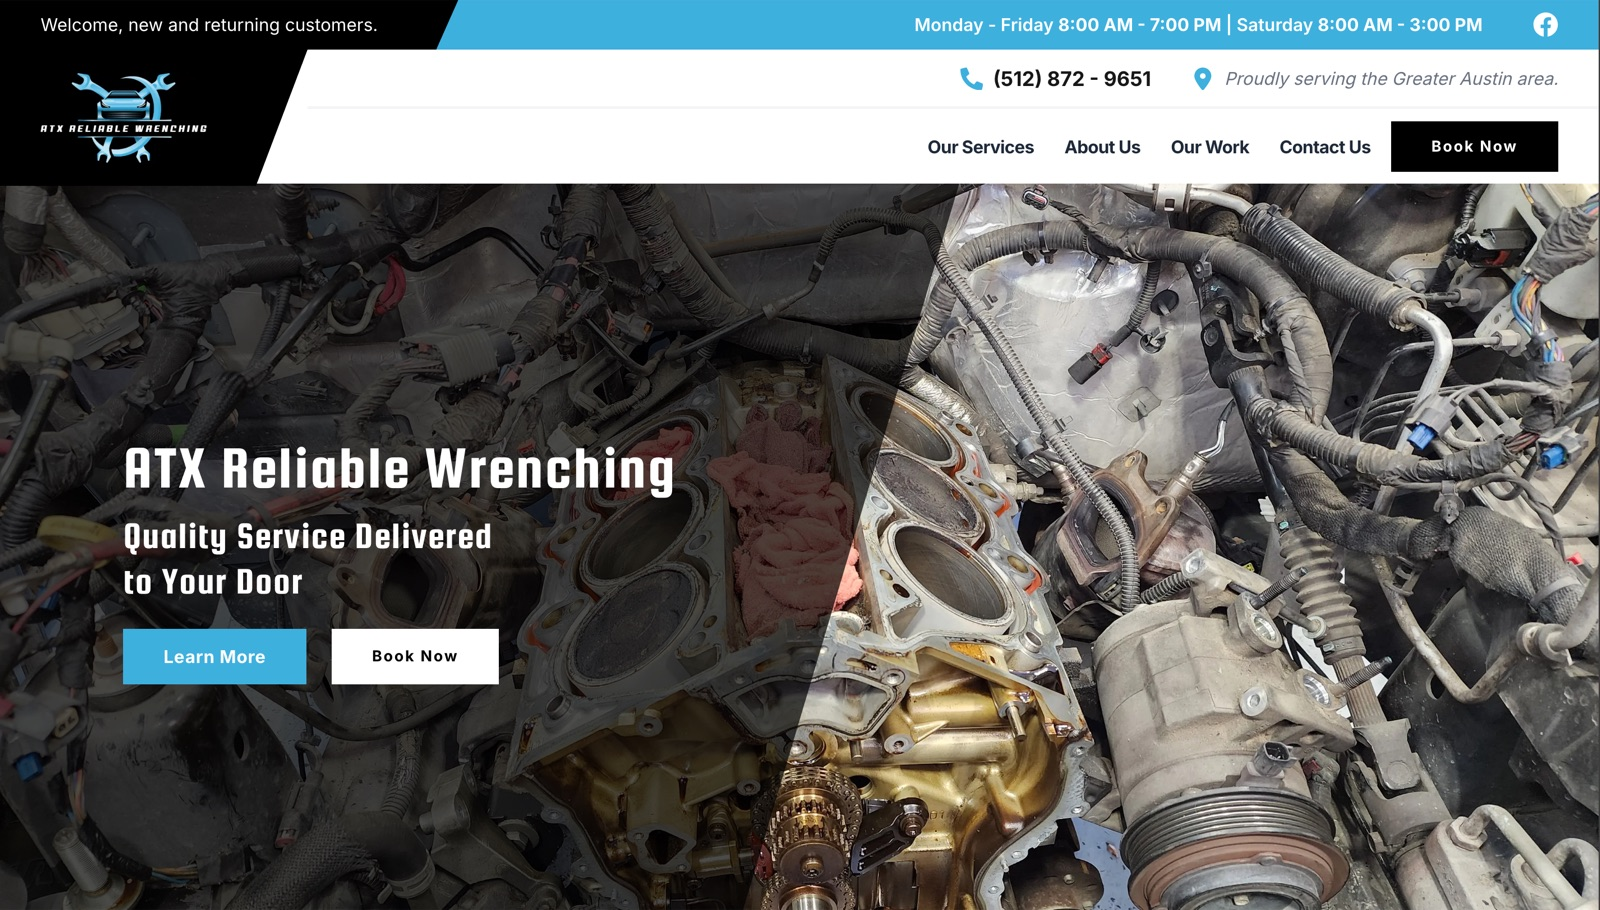
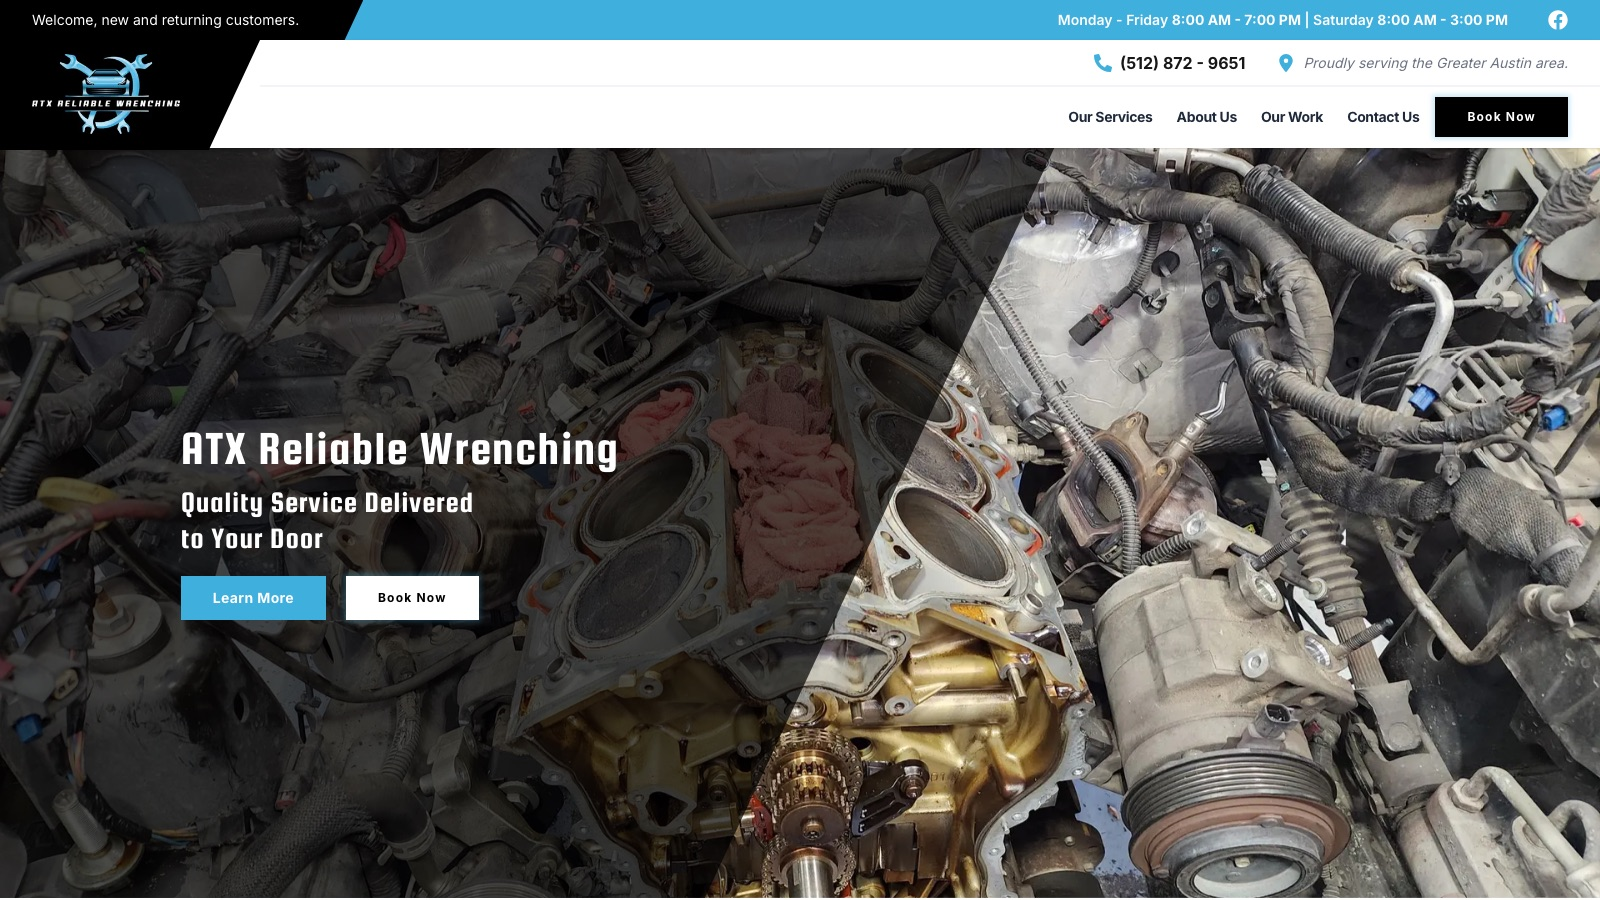
Replace Mobile Mechanic screenshot with current hero
Fresh 1600x900 capture of the live site's hero, showing the diagonal
panels the lessonsLearned describes. Same filename, so projects.ts is
unchanged.

diff --git a/docs/PROJECT_MODAL_UPDATES.md b/docs/PROJECT_MODAL_UPDATES.md
@@ -71,13 +71,13 @@ a first full audit against it has already been done and the clear violations fix
 - Caveats: screenshot uses mock data; Firebase and RevenueCat were only tested with
   mocks; the overview diagram adds a `client` classDef (muted purple).
 
-### Mobile Mechanic Site — done, two open items
+### Mobile Mechanic Site — done, one open item
 - `stack`, `summary`, `description`, `architectureNote`, and `lessonsLearned` are all
   updated, including the fuller trigonometry-based diagonal-angle story. Metrics were
   considered and dropped (didn't earn their place as a tile).
-- Open, tracked in `TODO.md`: screenshots predate the redesign and don't show the
-  diagonal-panel design the story now describes; Results (bookings/client feedback)
-  still has no real data to add.
+- Screenshot replaced 2026-09-30 with a live hero capture that shows the diagonal
+  panels (one image; René decided services/reviews shots weren't needed).
+- Open: Results (bookings/client feedback) still has no real data to add.
 
 ## Undecided
 

diff --git a/docs/TODO.md b/docs/TODO.md
@@ -6,7 +6,6 @@
 
 ## Next
 <!-- Planned soon, in priority order. -->
-- [ ] Mobile Mechanic Site: new screenshots showing the diagonal-panel hero, services, and reviews
 - [ ] Route Planning App: find out what broke after the API free-tier change and update `description`/`stack`/`demoNote` to match (brief in `docs/PORTFOLIO_HANDOFF.md`)
 - [ ] Check the project modal on a real phone (last open item from Phase 6)
 - [ ] Weather App: produce a real entry via the handoff brief, or drop it
@@ -21,6 +20,7 @@
 
 ## Done recently
 <!-- /wrapup moves finished items here with a date. Keep about the last 10. -->
+- [x] Mobile Mechanic screenshot replaced with a current hero capture showing the diagonal panels (2026-09-30)
 - [x] Pushed `working` and fast-forwarded `main` to it, bringing LinkLeaf to `main` (2026-09-30, 8f20d83)
 - [x] Browser check of the LinkLeaf modal (2026-09-30, 792d9ea)
 - [x] LinkLeaf back in the lineup with its full case study; `lessonsLearned` accepts multiple paragraphs (2026-09-30, 41ac13b)

diff --git a/docs/STATUS.md b/docs/STATUS.md
@@ -43,8 +43,8 @@ carousel. The mobile layout is in place, including a full-screen modal below `md
   found 4 rendered diagrams, no Mermaid or console errors, both lesson paragraphs, and
   the `client` fill applied (792d9ea, 2026-09-30). On `main` since 8f20d83 (pushed
   2026-09-30); whether the Vercel deploy picked it up is **unverified**.
-- **Mobile Mechanic Site** (live client site): copy done. **Open:** its one screenshot
-  predates the diagonal-panel redesign. The repo is a client deliverable, so it gets no
+- **Mobile Mechanic Site** (live client site): copy done. The screenshot is a fresh
+  1600×900 capture of the live hero, showing the diagonal panels (2026-09-30). The repo is a client deliverable, so it gets no
   `codeUrl` without checking first.
 - **Route Planning App**: copy done. **Open:** a routing/geocoding API it depends on may
   have lost its free tier, so the `demoNote` and stack may no longer be accurate
